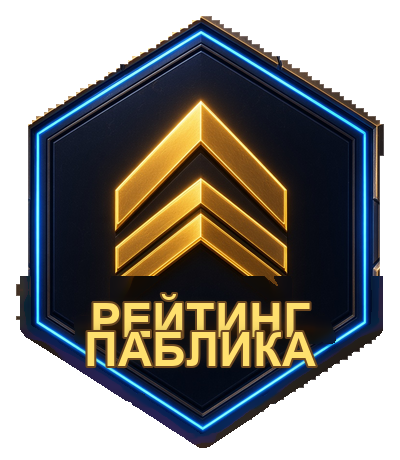
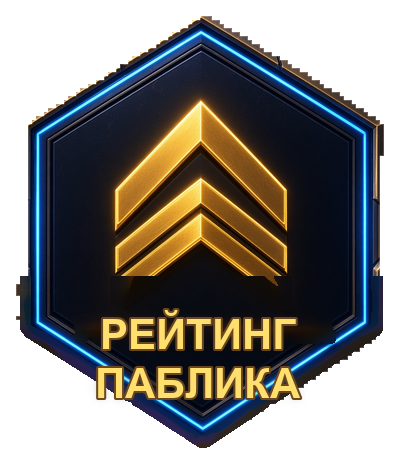
Fix hub tile label line spacing so two-line captions do not collide.
Widen leading and nudge multiline text lower away from icons.

Changed region(s): [[0.21, 0.6391, 0.81, 0.8826]]

diff --git a/src/components/HomeHubTiles.tsx b/src/components/HomeHubTiles.tsx
@@ -255,7 +255,7 @@ export function HomeHubTiles({ tiles, initialLayout, canEdit }: Props) {
               <span
                 className="home-hub-tile-art"
                 aria-hidden="true"
-                style={{ backgroundImage: `url(${tile.image}?v=label2)` }}
+                style={{ backgroundImage: `url(${tile.image}?v=label4)` }}
               />
             </>
           );

diff --git a/scripts/restyle_hub_tile_labels.py b/scripts/restyle_hub_tile_labels.py
@@ -120,10 +120,14 @@ def erase_text(im: Image.Image) -> Image.Image:
 
 
 def fit_font(
-    draw: ImageDraw.ImageDraw, lines: list[str], max_w: int, max_h: int
+    draw: ImageDraw.ImageDraw,
+    lines: list[str],
+    max_w: int,
+    max_h: int,
+    gap_ratio: float,
 ) -> ImageFont.ImageFont:
-    size = 52
-    while size >= 18:
+    size = 42 if len(lines) > 1 else 52
+    while size >= 16:
         font = pick_font(size)
         widths = []
         heights = []
@@ -131,29 +135,43 @@ def fit_font(
             box = draw.textbbox((0, 0), line, font=font)
             widths.append(box[2] - box[0])
             heights.append(box[3] - box[1])
-        total_h = sum(heights) + max(0, len(lines) - 1) * int(size * 0.12)
+        gap = max(8, int(size * gap_ratio))
+        stroke = max(1, size // 20)
+        total_h = (
+            sum(heights)
+            + max(0, len(lines) - 1) * (gap + stroke * 2)
+            + stroke * 2
+        )
         if max(widths) <= max_w and total_h <= max_h:
             return font
         size -= 1
-    return pick_font(18)
+    return pick_font(16)
 
 
 def draw_gold_label(im: Image.Image, text: str) -> Image.Image:
     w, h = im.size
     lines = [ln.strip() for ln in text.split("\n") if ln.strip()]
     probe = ImageDraw.Draw(im)
-    max_w = int(w * 0.70)
-    max_h = int(h * 0.18)
-    font = fit_font(probe, lines, max_w, max_h)
+    max_w = int(w * 0.66)
+    # Двухстрочным — больше высоты блока и межстрочный зазор.
+    multiline = len(lines) > 1
+    gap_ratio = 0.48 if multiline else 0.12
+    max_h = int(h * (0.24 if multiline else 0.16))
+    font = fit_font(probe, lines, max_w, max_h, gap_ratio)
+    stroke_w = max(1, getattr(font, "size", 28) // 20)
 
     metrics = []
     for line in lines:
-        box = probe.textbbox((0, 0), line, font=font)
+        box = probe.textbbox((0, 0), line, font=font, stroke_width=stroke_w)
         metrics.append((line, box[2] - box[0], box[3] - box[1], -box[1]))
-    gap = max(2, int(getattr(font, "size", 28) * 0.1))
-    block_h = sum(m[2] for m in metrics) + gap * (len(metrics) - 1)
-    top = int(h * 0.735) - block_h // 2
-    top = max(int(h * 0.64), min(top, int(h * 0.80) - block_h))
+    gap = max(8, int(getattr(font, "size", 28) * gap_ratio))
+    step_extra = stroke_w * 2
+    block_h = sum(m[2] for m in metrics) + (gap + step_extra) * (
+        len(metrics) - 1
+    )
+    # Чуть ниже, чтобы не наезжать на иконку (шеврон / весы / щит).
+    top = int(h * (0.77 if multiline else 0.735)) - block_h // 2
+    top = max(int(h * 0.67), min(top, int(h * 0.86) - block_h))
 
     fill_color = (255, 224, 110, 255)
     stroke_color = (90, 50, 8, 230)
@@ -161,7 +179,7 @@ def draw_gold_label(im: Image.Image, text: str) -> Image.Image:
     y = top
     for line, tw, th, ascent in metrics:
         x = (w - tw) // 2
-        for rad, alpha in ((9, 28), (5, 50), (2, 85)):
+        for rad, alpha in ((6, 30), (3, 55), (1, 80)):
             glow = Image.new("RGBA", im.size, (0, 0, 0, 0))
             gd = ImageDraw.Draw(glow)
             gd.text(
@@ -179,11 +197,11 @@ def draw_gold_label(im: Image.Image, text: str) -> Image.Image:
             line,
             font=font,
             fill=fill_color,
-            stroke_width=max(1, getattr(font, "size", 28) // 20),
+            stroke_width=stroke_w,
             stroke_fill=stroke_color,
             anchor="lt",
         )
-        y += th + gap
+        y += th + gap + step_extra
     return im
 
 
